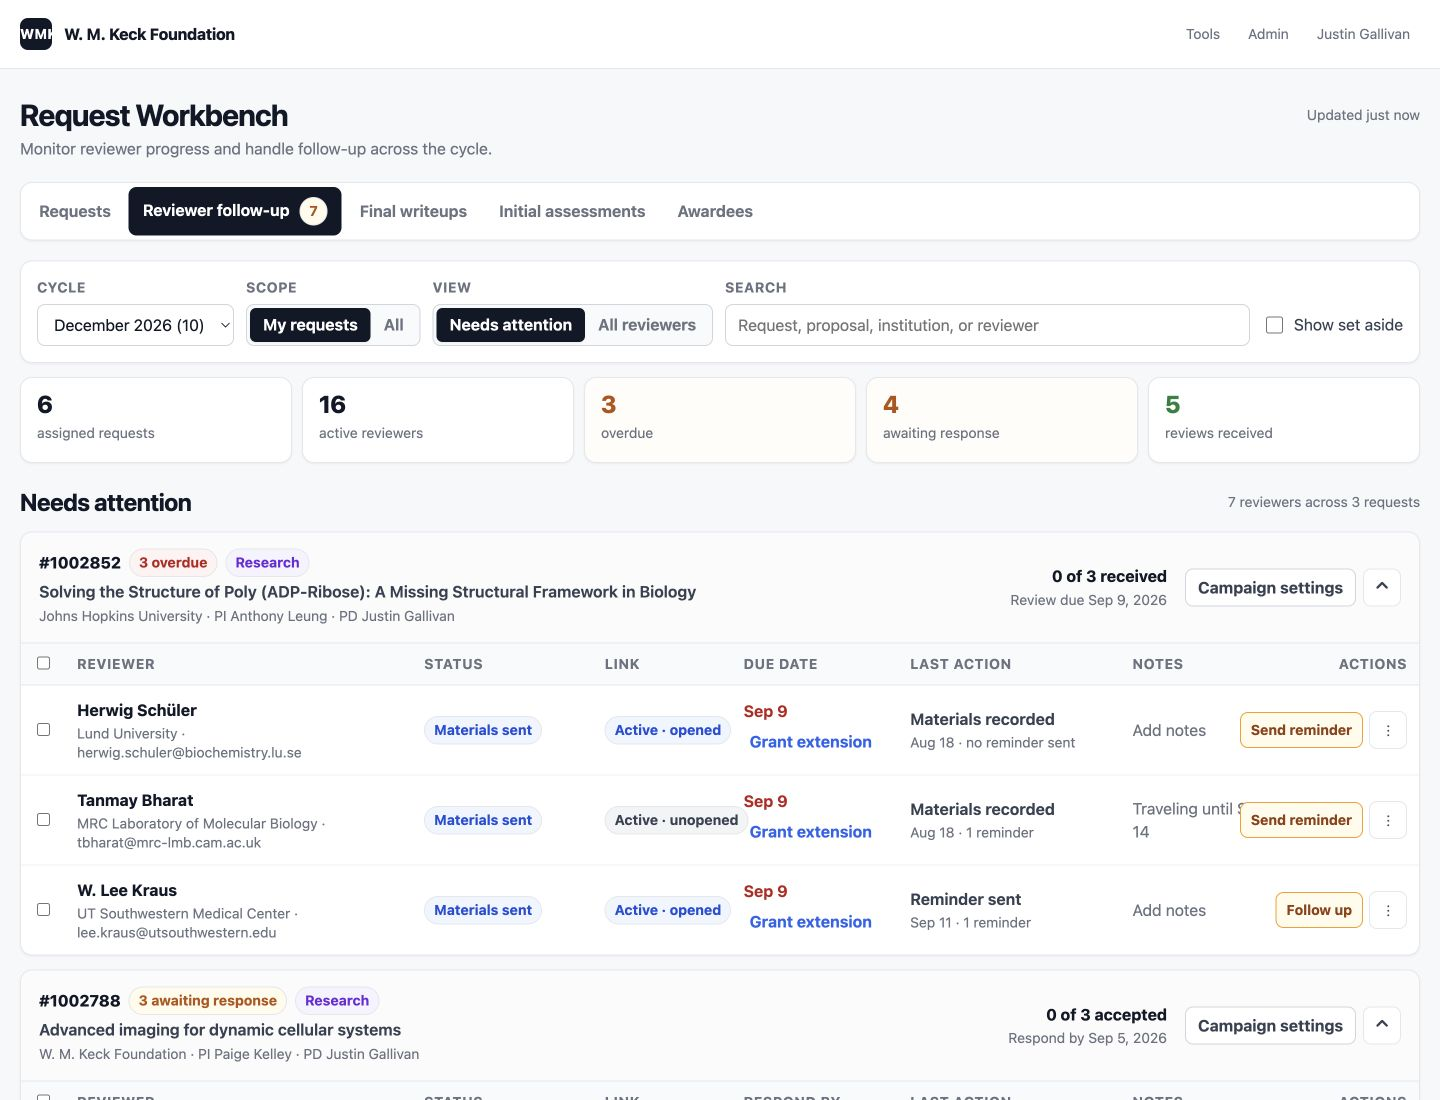
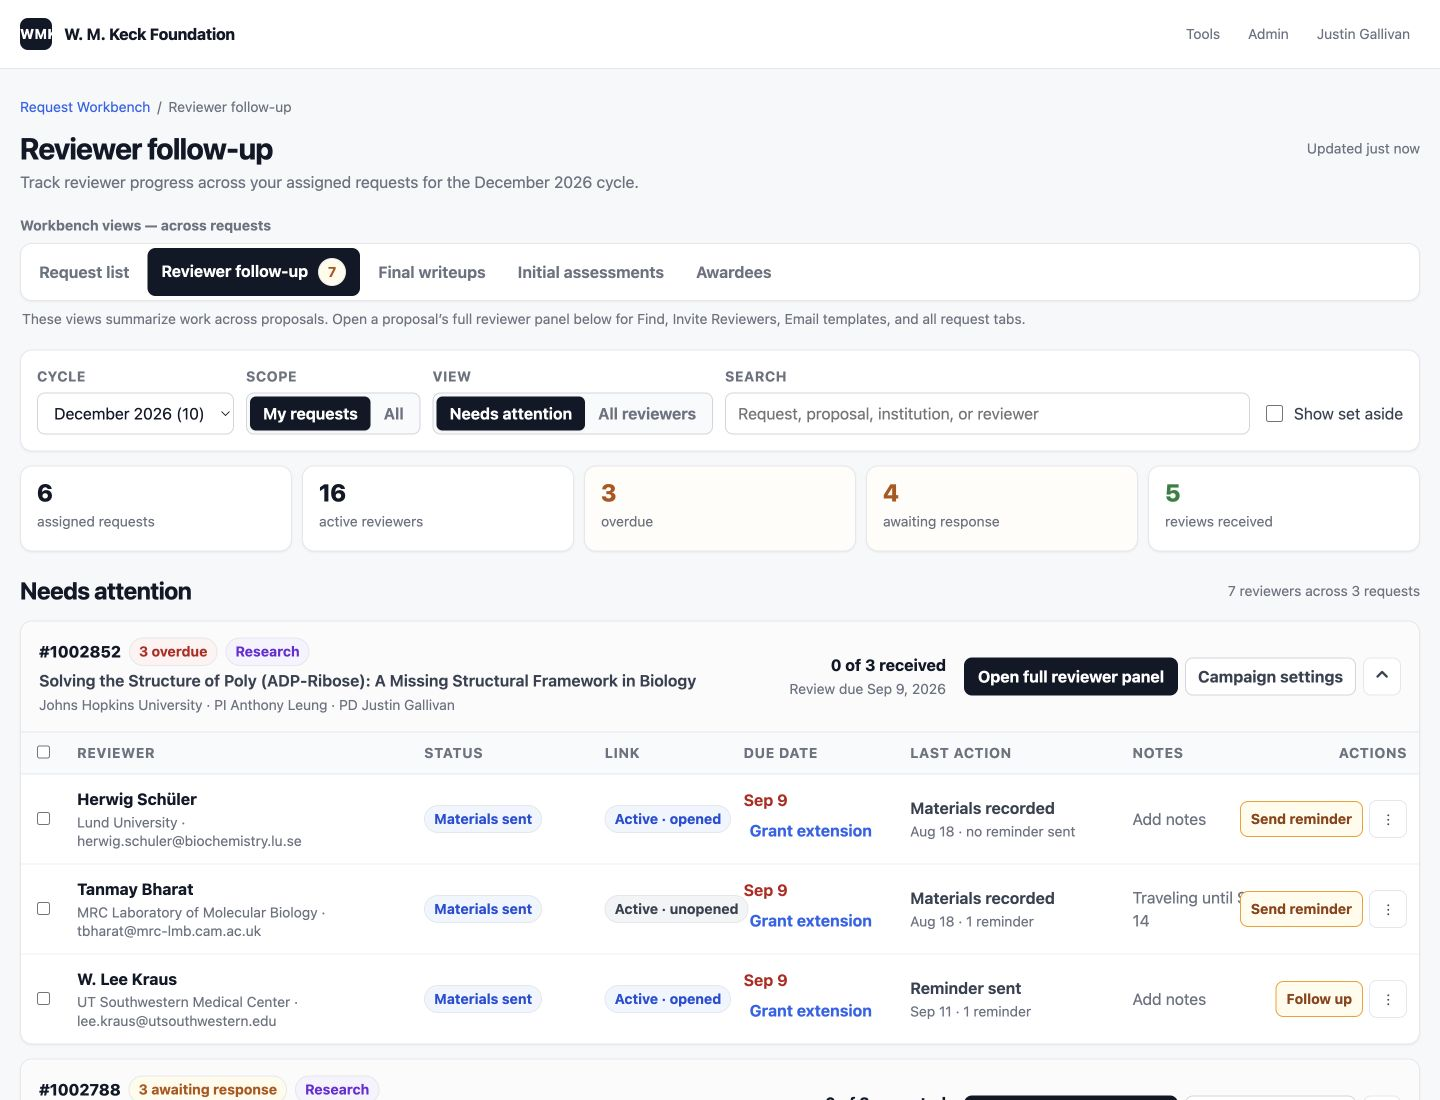
Clarify reviewer follow-up navigation hierarchy

diff --git a/.impeccable/mockups/reviewer-follow-up.html b/.impeccable/mockups/reviewer-follow-up.html
@@ -94,6 +94,17 @@
 
     .page { padding: 28px 0 56px; }
 
+    .breadcrumb {
+      display: flex;
+      align-items: center;
+      gap: 7px;
+      margin-bottom: 13px;
+      color: var(--muted);
+      font-size: 0.875rem;
+    }
+    .breadcrumb a { color: var(--blue); text-decoration: none; }
+    .breadcrumb a:hover { text-decoration: underline; text-underline-offset: 3px; }
+
     .page-heading {
       display: flex;
       align-items: flex-start;
@@ -106,12 +117,20 @@
     .subtitle { margin: 0; color: var(--muted); }
     .updated { color: var(--muted); font-size: 0.875rem; padding-top: 8px; white-space: nowrap; }
 
+    .view-navigation { margin-bottom: 20px; }
+    .workbench-nav-label {
+      margin: 0 0 7px;
+      color: var(--muted);
+      font-size: 0.875rem;
+      font-weight: 700;
+    }
+
     .workbench-nav {
       display: flex;
       align-items: center;
       gap: 4px;
       padding: 4px;
-      margin-bottom: 20px;
+      margin-bottom: 0;
       border: 1px solid var(--border);
       background: var(--surface);
       border-radius: 0.75rem;
@@ -130,6 +149,12 @@
     }
     .workbench-nav button.active { color: white; background: var(--ink); }
     .workbench-nav button:not(.active):hover { color: var(--ink); background: #f3f4f6; }
+    .navigation-help {
+      margin: 8px 2px 0;
+      color: var(--muted);
+      font-size: 0.875rem;
+      line-height: 1.45;
+    }
 
     .filters {
       display: grid;
@@ -284,6 +309,7 @@
     .text-button { border: 0; background: transparent; color: var(--blue); padding: 0 6px; }
     .icon-button:hover, .secondary-button:hover { background: #f9fafb; border-color: #9ca3af; }
     .primary-button:hover { background: #1f2937; }
+    .open-panel { white-space: nowrap; }
 
     .group-actions {
       display: none;
@@ -424,6 +450,7 @@
       .app-header-inner { min-height: 58px; }
       .utility-nav a:not(:last-child) { display: none; }
       .page { padding-top: 18px; }
+      .breadcrumb { margin-bottom: 11px; }
       .page-heading { display: block; margin-bottom: 16px; }
       h1 { font-size: 1.5rem; }
       .updated { padding-top: 5px; }
@@ -436,8 +463,10 @@
       .summary-card { min-height: 80px; }
       .queue-heading { align-items: flex-end; }
       .request-header { grid-template-columns: 1fr auto; padding: 14px; }
+      .request-header > div:first-child { grid-column: 1 / -1; }
       .request-progress { grid-column: 1 / -1; text-align: left; min-width: 0; display: flex; gap: 7px; align-items: baseline; }
-      .request-tools .secondary-button { display: none; }
+      .request-tools { grid-column: 1 / -1; flex-wrap: wrap; }
+      .request-tools .secondary-button, .request-tools .primary-button { flex: 1; }
       .group-actions { align-items: flex-start; padding-inline: 14px; }
 
       .reviewer-table, .reviewer-table tbody { display: block; }
@@ -499,21 +528,28 @@
   </header>
 
   <main class="page">
+    <nav class="breadcrumb" aria-label="Breadcrumb">
+      <a href="#">Request Workbench</a><span aria-hidden="true">/</span><span aria-current="page">Reviewer follow-up</span>
+    </nav>
     <div class="page-heading">
       <div>
-        <h1>Request Workbench</h1>
-        <p class="subtitle">Monitor reviewer progress and handle follow-up across the cycle.</p>
+        <h1>Reviewer follow-up</h1>
+        <p class="subtitle">Track reviewer progress across your assigned requests for the December 2026 cycle.</p>
       </div>
       <div class="updated">Updated just now</div>
     </div>
 
-    <nav class="workbench-nav" aria-label="Workbench sections">
-      <button type="button">Requests</button>
-      <button type="button" class="active" aria-current="page">Reviewer follow-up <span class="chip amber" style="margin-left:6px">7</span></button>
-      <button type="button">Final writeups</button>
-      <button type="button">Initial assessments</button>
-      <button type="button">Awardees</button>
-    </nav>
+    <section class="view-navigation" aria-labelledby="workbench-views-label">
+      <h2 class="workbench-nav-label" id="workbench-views-label">Workbench views — across requests</h2>
+      <nav class="workbench-nav" aria-label="Workbench views">
+        <button type="button">Request list</button>
+        <button type="button" class="active" aria-current="page">Reviewer follow-up <span class="chip amber" style="margin-left:6px">7</span></button>
+        <button type="button">Final writeups</button>
+        <button type="button">Initial assessments</button>
+        <button type="button">Awardees</button>
+      </nav>
+      <p class="navigation-help">These views summarize work across proposals. Open a proposal’s full reviewer panel below for Find, Invite Reviewers, Email templates, and all request tabs.</p>
+    </section>
 
     <section class="filters" aria-label="Reviewer follow-up filters">
       <div>
@@ -561,7 +597,7 @@
             <div class="request-meta">Johns Hopkins University · PI Anthony Leung · PD Justin Gallivan</div>
           </div>
           <div class="request-progress"><div class="progress-strong">0 of 3 received</div><div class="progress-detail">Review due Sep 9, 2026</div></div>
-          <div class="request-tools"><button class="secondary-button" type="button">Campaign settings</button><button class="icon-button collapse" type="button" aria-label="Collapse request" aria-expanded="true">⌃</button></div>
+          <div class="request-tools"><button class="primary-button open-panel" type="button" data-request="1002852">Open full reviewer panel</button><button class="secondary-button campaign-settings" type="button" data-request="1002852">Campaign settings</button><button class="icon-button collapse" type="button" aria-label="Collapse request" aria-expanded="true">⌃</button></div>
         </header>
         <div class="group-actions"><span><strong class="selected-count">0</strong> selected in Request #1002852</span><div><button class="secondary-button group-email" type="button">Send email</button></div></div>
         <div class="request-content">
@@ -611,7 +647,7 @@
             <div class="request-meta">W. M. Keck Foundation · PI Paige Kelley · PD Justin Gallivan</div>
           </div>
           <div class="request-progress"><div class="progress-strong">0 of 3 accepted</div><div class="progress-detail">Respond by Sep 5, 2026</div></div>
-          <div class="request-tools"><button class="secondary-button" type="button">Campaign settings</button><button class="icon-button collapse" type="button" aria-label="Collapse request" aria-expanded="true">⌃</button></div>
+          <div class="request-tools"><button class="primary-button open-panel" type="button" data-request="1002788">Open full reviewer panel</button><button class="secondary-button campaign-settings" type="button" data-request="1002788">Campaign settings</button><button class="icon-button collapse" type="button" aria-label="Collapse request" aria-expanded="true">⌃</button></div>
         </header>
         <div class="group-actions"><span><strong class="selected-count">0</strong> selected in Request #1002788</span><div><button class="secondary-button group-email" type="button">Send email</button></div></div>
         <div class="request-content">
@@ -661,7 +697,7 @@
             <div class="request-meta">California Institute of Technology · PI Elena Rossi · PD Justin Gallivan</div>
           </div>
           <div class="request-progress"><div class="progress-strong">2 of 3 received</div><div class="progress-detail">1 review still outstanding</div></div>
-          <div class="request-tools"><button class="secondary-button" type="button">Campaign settings</button><button class="icon-button collapse" type="button" aria-label="Collapse request" aria-expanded="true">⌃</button></div>
+          <div class="request-tools"><button class="primary-button open-panel" type="button" data-request="1002874">Open full reviewer panel</button><button class="secondary-button campaign-settings" type="button" data-request="1002874">Campaign settings</button><button class="icon-button collapse" type="button" aria-label="Collapse request" aria-expanded="true">⌃</button></div>
         </header>
         <div class="group-actions"><span><strong class="selected-count">0</strong> selected in Request #1002874</span><div><button class="secondary-button group-email" type="button">Send email</button></div></div>
         <div class="request-content">
@@ -707,7 +743,7 @@
         <header class="request-header">
           <div><div class="request-title-line"><span class="request-number">#1002911</span><span class="chip green">Complete</span><span class="chip violet">Research</span></div><div class="request-title">Adaptive materials for low-energy manufacturing</div><div class="request-meta">Northwestern University · PI Samuel Ortiz · PD Justin Gallivan</div></div>
           <div class="request-progress"><div class="progress-strong">3 of 3 received</div><div class="progress-detail">No follow-up needed</div></div>
-          <div class="request-tools"><button class="secondary-button" type="button">Open request</button><button class="icon-button collapse" type="button" aria-label="Expand request" aria-expanded="false">⌄</button></div>
+          <div class="request-tools"><button class="primary-button open-panel" type="button" data-request="1002911">Open full reviewer panel</button><button class="secondary-button campaign-settings" type="button" data-request="1002911">Campaign settings</button><button class="icon-button collapse" type="button" aria-label="Expand request" aria-expanded="false">⌄</button></div>
         </header>
         <div class="request-content" hidden></div>
       </section>
@@ -740,6 +776,14 @@
         }
       });
     });
+
+    document.querySelectorAll('.open-panel').forEach(button => button.addEventListener('click', () => {
+      showToast(`Opening Request #${button.dataset.request} at Reviewers → Track Reviewers.`);
+    }));
+
+    document.querySelectorAll('.campaign-settings').forEach(button => button.addEventListener('click', () => {
+      showToast(`Opening campaign settings for Request #${button.dataset.request}.`);
+    }));
 
     document.querySelectorAll('.collapse').forEach(button => {
       button.addEventListener('click', () => {
